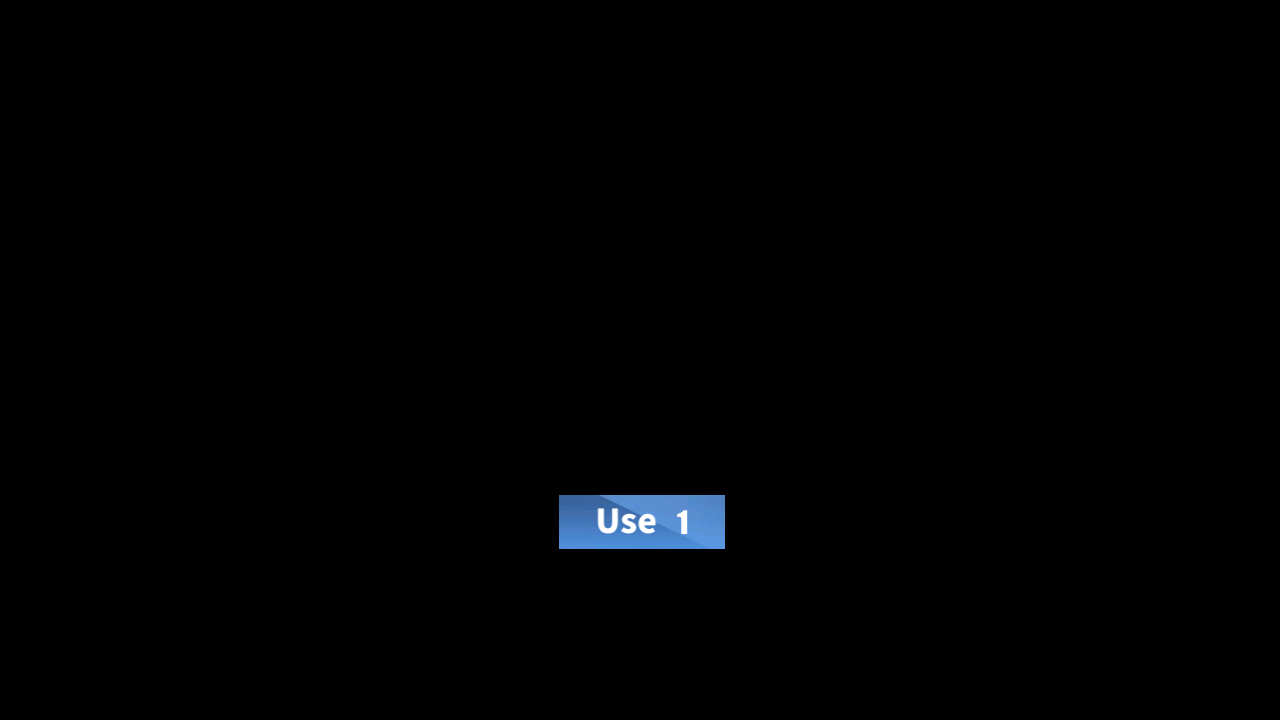
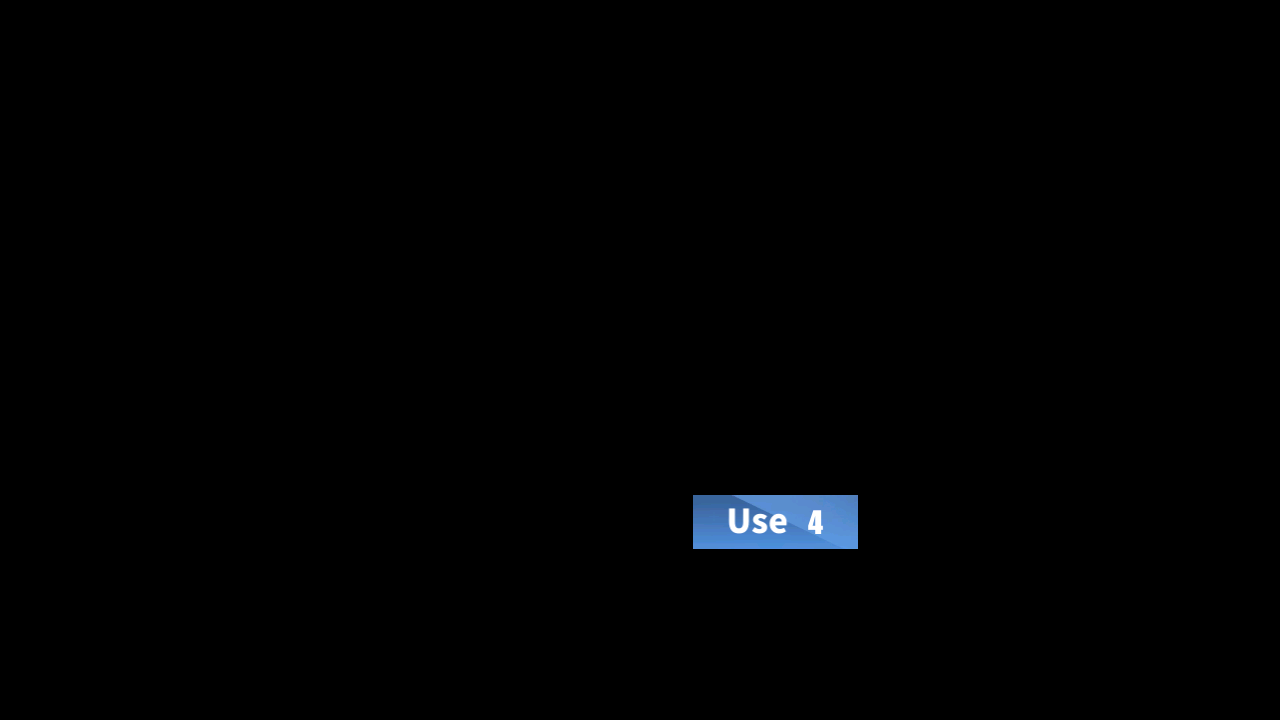
Fix: [EN] Obscure finish select assets

Changed region(s): [[0.4375, 0.6722, 0.6875, 0.7639]]

diff --git a/module/os_handler/assets.py b/module/os_handler/assets.py
@@ -25,7 +25,7 @@ MISSION_ENTER = Button(area={'cn': (767, 639, 853, 695), 'en': (767, 640, 824, 6
 MISSION_FINISH = Button(area={'cn': (1028, 205, 1112, 232), 'en': (1029, 205, 1112, 232), 'jp': (1026, 204, 1114, 234), 'tw': (1028, 205, 1112, 232)}, color={'cn': (79, 128, 191), 'en': (84, 132, 193), 'jp': (91, 137, 196), 'tw': (79, 128, 191)}, button={'cn': (1028, 205, 1112, 232), 'en': (1029, 205, 1112, 232), 'jp': (1026, 204, 1114, 234), 'tw': (1028, 205, 1112, 232)}, file={'cn': './assets/cn/os_handler/MISSION_FINISH.png', 'en': './assets/en/os_handler/MISSION_FINISH.png', 'jp': './assets/jp/os_handler/MISSION_FINISH.png', 'tw': './assets/cn/os_handler/MISSION_FINISH.png'})
 MISSION_MAP_CHECK = Button(area={'cn': (943, 499, 1048, 512), 'en': (943, 499, 1048, 512), 'jp': (943, 499, 1048, 512), 'tw': (943, 499, 1048, 512)}, color={'cn': (71, 74, 83), 'en': (71, 74, 83), 'jp': (71, 74, 83), 'tw': (71, 74, 83)}, button={'cn': (943, 499, 1048, 512), 'en': (943, 499, 1048, 512), 'jp': (943, 499, 1048, 512), 'tw': (943, 499, 1048, 512)}, file={'cn': './assets/cn/os_handler/MISSION_MAP_CHECK.png', 'en': './assets/en/os_handler/MISSION_MAP_CHECK.png', 'jp': './assets/jp/os_handler/MISSION_MAP_CHECK.png', 'tw': './assets/tw/os_handler/MISSION_MAP_CHECK.png'})
 MISSION_QUIT = Button(area={'cn': (1086, 111, 1152, 155), 'en': (1086, 111, 1152, 155), 'jp': (1086, 111, 1152, 155), 'tw': (1086, 111, 1152, 155)}, color={'cn': (152, 38, 35), 'en': (152, 38, 35), 'jp': (152, 38, 35), 'tw': (152, 38, 35)}, button={'cn': (1086, 111, 1152, 155), 'en': (1086, 111, 1152, 155), 'jp': (1086, 111, 1152, 155), 'tw': (1086, 111, 1152, 155)}, file={'cn': './assets/cn/os_handler/MISSION_QUIT.png', 'en': './assets/en/os_handler/MISSION_QUIT.png', 'jp': './assets/jp/os_handler/MISSION_QUIT.png', 'tw': './assets/tw/os_handler/MISSION_QUIT.png'})
-ORDER_CHECK = Button(area={'cn': (106, 77, 224, 94), 'en': (413, 423, 525, 435), 'jp': (65, 64, 147, 95), 'tw': (106, 77, 224, 94)}, color={'cn': (141, 123, 71), 'en': (179, 162, 162), 'jp': (101, 93, 62), 'tw': (141, 123, 71)}, button={'cn': (106, 77, 224, 94), 'en': (413, 423, 525, 435), 'jp': (65, 64, 147, 95), 'tw': (106, 77, 224, 94)}, file={'cn': './assets/cn/os_handler/ORDER_CHECK.png', 'en': './assets/en/os_handler/ORDER_CHECK.png', 'jp': './assets/jp/os_handler/ORDER_CHECK.png', 'tw': './assets/cn/os_handler/ORDER_CHECK.png'})
+ORDER_CHECK = Button(area={'cn': (106, 77, 224, 94), 'en': (101, 79, 306, 93), 'jp': (65, 64, 147, 95), 'tw': (106, 77, 224, 94)}, color={'cn': (141, 123, 71), 'en': (122, 107, 64), 'jp': (101, 93, 62), 'tw': (141, 123, 71)}, button={'cn': (106, 77, 224, 94), 'en': (101, 79, 306, 93), 'jp': (65, 64, 147, 95), 'tw': (106, 77, 224, 94)}, file={'cn': './assets/cn/os_handler/ORDER_CHECK.png', 'en': './assets/en/os_handler/ORDER_CHECK.png', 'jp': './assets/jp/os_handler/ORDER_CHECK.png', 'tw': './assets/cn/os_handler/ORDER_CHECK.png'})
 ORDER_ENTER = Button(area={'cn': (1012, 165, 1044, 194), 'en': (1016, 166, 1038, 188), 'jp': (1012, 164, 1043, 195), 'tw': (1012, 165, 1044, 194)}, color={'cn': (95, 114, 137), 'en': (134, 161, 186), 'jp': (96, 116, 140), 'tw': (95, 114, 137)}, button={'cn': (1012, 165, 1044, 194), 'en': (1016, 166, 1038, 188), 'jp': (1012, 164, 1043, 195), 'tw': (1012, 165, 1044, 194)}, file={'cn': './assets/cn/os_handler/ORDER_ENTER.png', 'en': './assets/en/os_handler/ORDER_ENTER.png', 'jp': './assets/jp/os_handler/ORDER_ENTER.png', 'tw': './assets/cn/os_handler/ORDER_ENTER.png'})
 ORDER_SCAN = Button(area={'cn': (920, 375, 1220, 471), 'en': (923, 379, 1217, 445), 'jp': (920, 375, 1220, 445), 'tw': (920, 375, 1220, 471)}, color={'cn': (89, 129, 195), 'en': (89, 129, 197), 'jp': (90, 129, 193), 'tw': (89, 129, 195)}, button={'cn': (920, 375, 1220, 471), 'en': (923, 379, 1217, 445), 'jp': (920, 375, 1220, 445), 'tw': (920, 375, 1220, 471)}, file={'cn': './assets/cn/os_handler/ORDER_SCAN.png', 'en': './assets/en/os_handler/ORDER_SCAN.png', 'jp': './assets/jp/os_handler/ORDER_SCAN.png', 'tw': './assets/cn/os_handler/ORDER_SCAN.png'})
 ORDER_SUBMARINE = Button(area={'cn': (920, 502, 1220, 598), 'en': (923, 505, 1217, 571), 'jp': (920, 502, 1220, 574), 'tw': (920, 502, 1220, 598)}, color={'cn': (85, 124, 190), 'en': (88, 127, 191), 'jp': (90, 128, 191), 'tw': (85, 124, 190)}, button={'cn': (920, 502, 1220, 598), 'en': (923, 505, 1217, 571), 'jp': (920, 502, 1220, 574), 'tw': (920, 502, 1220, 598)}, file={'cn': './assets/cn/os_handler/ORDER_SUBMARINE.png', 'en': './assets/en/os_handler/ORDER_SUBMARINE.png', 'jp': './assets/jp/os_handler/ORDER_SUBMARINE.png', 'tw': './assets/cn/os_handler/ORDER_SUBMARINE.png'})
@@ -44,7 +44,7 @@ SHOP_YELLOW_COINS = Button(area={'cn': (1038, 27, 1128, 48), 'en': (1038, 27, 11
 STORAGE_CHECK = Button(area={'cn': (122, 15, 203, 40), 'en': (139, 14, 254, 41), 'jp': (120, 14, 212, 40), 'tw': (122, 15, 203, 40)}, color={'cn': (162, 178, 214), 'en': (107, 121, 161), 'jp': (97, 108, 143), 'tw': (162, 178, 214)}, button={'cn': (122, 15, 203, 40), 'en': (139, 14, 254, 41), 'jp': (120, 14, 212, 40), 'tw': (122, 15, 203, 40)}, file={'cn': './assets/cn/os_handler/STORAGE_CHECK.png', 'en': './assets/en/os_handler/STORAGE_CHECK.png', 'jp': './assets/jp/os_handler/STORAGE_CHECK.png', 'tw': './assets/cn/os_handler/STORAGE_CHECK.png'})
 STORAGE_COORDINATE_CHECKOUT = Button(area={'cn': (554, 493, 726, 550), 'en': (560, 495, 725, 549), 'jp': (562, 492, 728, 552), 'tw': (554, 493, 726, 550)}, color={'cn': (92, 141, 203), 'en': (98, 146, 206), 'jp': (92, 142, 204), 'tw': (92, 141, 203)}, button={'cn': (554, 493, 726, 550), 'en': (560, 495, 725, 549), 'jp': (562, 492, 728, 552), 'tw': (554, 493, 726, 550)}, file={'cn': './assets/cn/os_handler/STORAGE_COORDINATE_CHECKOUT.png', 'en': './assets/en/os_handler/STORAGE_COORDINATE_CHECKOUT.png', 'jp': './assets/jp/os_handler/STORAGE_COORDINATE_CHECKOUT.png', 'tw': './assets/cn/os_handler/STORAGE_COORDINATE_CHECKOUT.png'})
 STORAGE_ENTER = Button(area={'cn': (770, 636, 880, 699), 'en': (761, 640, 876, 695), 'jp': (757, 636, 880, 699), 'tw': (770, 636, 880, 699)}, color={'cn': (240, 199, 121), 'en': (238, 191, 115), 'jp': (237, 187, 100), 'tw': (240, 199, 121)}, button={'cn': (770, 636, 880, 699), 'en': (761, 640, 876, 695), 'jp': (757, 636, 880, 699), 'tw': (770, 636, 880, 699)}, file={'cn': './assets/cn/os_handler/STORAGE_ENTER.png', 'en': './assets/en/os_handler/STORAGE_ENTER.png', 'jp': './assets/jp/os_handler/STORAGE_ENTER.png', 'tw': './assets/cn/os_handler/STORAGE_ENTER.png'})
-STORAGE_USE = Button(area={'cn': (709, 506, 769, 536), 'en': (598, 509, 655, 533), 'jp': (764, 506, 856, 536), 'tw': (709, 506, 769, 536)}, color={'cn': (161, 186, 220), 'en': (164, 189, 222), 'jp': (142, 178, 224), 'tw': (161, 186, 220)}, button={'cn': (687, 493, 860, 550), 'en': (559, 495, 725, 549), 'jp': (686, 492, 861, 552), 'tw': (687, 493, 860, 550)}, file={'cn': './assets/cn/os_handler/STORAGE_USE.png', 'en': './assets/en/os_handler/STORAGE_USE.png', 'jp': './assets/jp/os_handler/STORAGE_USE.png', 'tw': './assets/cn/os_handler/STORAGE_USE.png'})
+STORAGE_USE = Button(area={'cn': (709, 506, 769, 536), 'en': (729, 509, 786, 533), 'jp': (764, 506, 856, 536), 'tw': (709, 506, 769, 536)}, color={'cn': (161, 186, 220), 'en': (164, 189, 222), 'jp': (142, 178, 224), 'tw': (161, 186, 220)}, button={'cn': (687, 493, 860, 550), 'en': (693, 495, 858, 549), 'jp': (686, 492, 861, 552), 'tw': (687, 493, 860, 550)}, file={'cn': './assets/cn/os_handler/STORAGE_USE.png', 'en': './assets/en/os_handler/STORAGE_USE.png', 'jp': './assets/jp/os_handler/STORAGE_USE.png', 'tw': './assets/cn/os_handler/STORAGE_USE.png'})
 STORATE_SCROLL = Button(area={'cn': (1256, 102, 1264, 589), 'en': (1256, 102, 1264, 589), 'jp': (1256, 102, 1264, 589), 'tw': (1256, 102, 1264, 589)}, color={'cn': (119, 109, 60), 'en': (119, 109, 60), 'jp': (119, 109, 60), 'tw': (119, 109, 60)}, button={'cn': (1256, 102, 1264, 589), 'en': (1256, 102, 1264, 589), 'jp': (1256, 102, 1264, 589), 'tw': (1256, 102, 1264, 589)}, file={'cn': './assets/cn/os_handler/STORATE_SCROLL.png', 'en': './assets/en/os_handler/STORATE_SCROLL.png', 'jp': './assets/jp/os_handler/STORATE_SCROLL.png', 'tw': './assets/tw/os_handler/STORATE_SCROLL.png'})
 TEMPLATE_STORAGE_LOGGER = Template(file={'cn': './assets/cn/os_handler/TEMPLATE_STORAGE_LOGGER.png', 'en': './assets/en/os_handler/TEMPLATE_STORAGE_LOGGER.png', 'jp': './assets/jp/os_handler/TEMPLATE_STORAGE_LOGGER.png', 'tw': './assets/tw/os_handler/TEMPLATE_STORAGE_LOGGER.png'})
 TEMPLATE_STORAGE_OBSCURED = Template(file={'cn': './assets/cn/os_handler/TEMPLATE_STORAGE_OBSCURED.png', 'en': './assets/en/os_handler/TEMPLATE_STORAGE_OBSCURED.png', 'jp': './assets/jp/os_handler/TEMPLATE_STORAGE_OBSCURED.png', 'tw': './assets/tw/os_handler/TEMPLATE_STORAGE_OBSCURED.png'})
